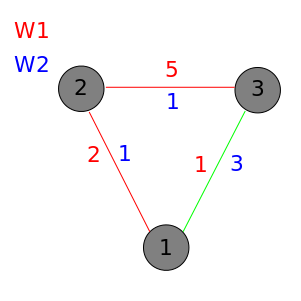
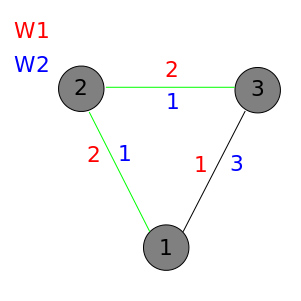
fix

diff --git a/tp3/informe/sol_golosa.tex b/tp3/informe/sol_golosa.tex
@@ -152,18 +152,36 @@ Llegamos a un absurdo al suponer que existe el camino $C$, y que el algoritmo en
 
 \subsection{Nivel de optimalidad de las soluciones}
 
+Consideremos el siguiente grafo: $Origen=1, \:Destino = 3, \: K = 10$.
+
 \begin{center}
 	\includegraphics[scale=0.7]{img/{grafoBasicoMaloGreedy}.png}
 \end{center}
 
-La salida de nuestro algoritmo nos devuelve el camino $1->2->3$ (para un $K$ no restrictivo), ya que la desici\'on golosa toma el m\'inimo de la cola en cada iteraci\'on y actualiza el nodo $3$ con el nodo $2$ ya que el camino $1->2$ (en rojo) tiene menos costo $w_2$ que la arista $(1,3)$ (en verde). Pero en este caso particular puede notarse como prima la desici\'on golosa en el algoritmo, sin tener en cuenta que este camino es mucho m\'as costoso en cuanto a $w_1$ que la arista. Si el grafo tuviese m\'as nodos adyacentes al nodo $3$, el haber elegido el camino va a restringir los caminos que va a poder tomar el algoritmo en las siguientes iteraciones. Por ejemplo, si el grafo fuese:
+\begin{lstlisting}[frame=single]
+Salida golosa:
+4 2 3 1 2 3
+\end{lstlisting}
+
+La salida de nuestro algoritmo nos devuelve el camino $1->2->3$ (para un $K$ no restrictivo), ya que la desici\'on golosa toma el m\'inimo de la cola en cada iteraci\'on y actualiza el nodo $3$ con el nodo $2$ ya que el camino $1->2$ (en rojo) tiene menos costo $w_2$ que la arista $(1,3)$ (en verde). Pero en este caso particular puede notarse como prima la desici\'on golosa en el algoritmo, sin tener en cuenta que este camino es mucho m\'as costoso en cuanto a $w_1$ que la arista. Si el grafo tuviese m\'as nodos adyacentes al nodo $3$, el haber elegido el camino va a restringir los caminos que va a poder tomar el algoritmo en las siguientes iteraciones. Por ejemplo, si el grafo fuese: $Origen=1, \:Destino = 6, \: K = 10$.
+
 
 
 \begin{center}
-	\includegraphics[scale=0.6]{img/{casoMaloGreedy}.png}
+	\includegraphics[scale=0.55]{img/{casoMaloGreedy}.png}
 \end{center}
 
-Tenemos en color rojo la salida del algoritmo y en color verde el camino \'optimo. Vemos como la desici\'on golosa inicial restringi\'o claramente la elecci\'on de caminos posterior, forzando a tomar el camino mucho m\'as pesado que le permite llegar a destino sin superar la cota, el cual podemos hacerlo arbitrariamente m\'as costoso en cuanto a $w_2$ y alejar la soluci\'on de nuestro algoritmo de la \'optima tanto como queramos.
+\begin{lstlisting}[frame=single]
+Salida exacto:
+10 5 4 1 3 4 6
+\end{lstlisting}
+
+\begin{lstlisting}[frame=single]
+Salida golosa:
+10 22 5 1 2 3 5 6 
+\end{lstlisting}
+
+Tenemos en color rojo la salida del algoritmo y en color verde el camino \'optimo. Vemos como la desici\'on golosa inicial restringi\'o claramente la elecci\'on de caminos posterior, forzando a tomar el camino mucho m\'as pesado que le permite llegar a destino sin superar la cota, el cual podemos hacerlo arbitrariamente m\'as costoso en cuanto a $w_2$ y alejar la soluci\'on de nuestro algoritmo de la \'optima tanto como queramos, aumentando los pesos $w_2$ o estirando el camino $3->5->6$ cuanto queramos (sin pasarnos de la cota $K$).
 
 \subsection{Experimentacion: Mediciones de Performance}
 En esta secci\'on se mostrar\'an resultados de complejidad temporal emp\'irica, veremos que los resultados coinciden razonablemente con el an\'alisis de complejidad te\'orica..
